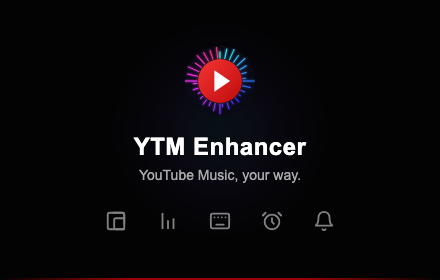
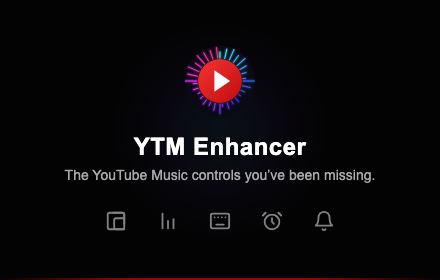
docs(store): sharpen extension marketing headline

Changed region(s): [[0.1477, 0.6, 0.8568, 0.6571]]

diff --git a/tests/docs/connected-apps-disclosure.test.ts b/tests/docs/connected-apps-disclosure.test.ts
@@ -74,15 +74,11 @@ describe("Connected Apps release disclosures", () => {
     const siteGenerator = read("apps/menu-bar/scripts/generate-appcast.mjs");
     const trayNotes = read("apps/windows-tray/release/notes/0.2.0.md");
 
-    expect(readme).toContain(
-      "The YouTube Music controls you’ve been missing.",
-    );
+    expect(readme).toContain("The YouTube Music controls you’ve been missing.");
     expect(readme.replace(/\s+/g, " ")).toContain(
       "Add precise playback controls, useful automation, a compact mini player, and more—without replacing the YouTube Music experience you already use.",
     );
-    expect(readme).not.toContain(
-      "Make YouTube Music work the way you listen.",
-    );
+    expect(readme).not.toContain("Make YouTube Music work the way you listen.");
     expect(readme).not.toMatch(/supercharges|best browser-based|ubiquity/i);
     expect(readme).toContain("**Connected Apps (Beta)**");
     expect(readme).toContain("Windows system tray");
@@ -105,8 +101,8 @@ describe("Connected Apps release disclosures", () => {
     expect(siteGenerator).toContain(
       "The YouTube Music controls you’ve been missing.",
     );
-    expect(siteGenerator).toContain(
-      "Add precise playback controls, useful automation, a compact mini player,",
+    expect(siteGenerator.replace(/\s+/g, " ")).toContain(
+      "Add precise playback controls, useful automation, a compact mini player, and more—without replacing the YouTube Music experience you already use.",
     );
     expect(siteGenerator).not.toContain(
       "Make YouTube Music work the way you listen",

diff --git a/store/screenshots/promo-marquee-1400x560.html b/store/screenshots/promo-marquee-1400x560.html
@@ -227,7 +227,7 @@
         alt="YTM Enhancer"
       />
       <h1>YTM Enhancer</h1>
-      <p class="tagline">Make YouTube Music work the way you listen.</p>
+      <p class="tagline">The YouTube Music controls you’ve been missing.</p>
       <div class="features">
         <div class="feature">
           <svg viewBox="0 0 24 24" aria-hidden="true">

diff --git a/store/screenshots/promo-small-440x280.html b/store/screenshots/promo-small-440x280.html
@@ -204,7 +204,7 @@
     </div>
 
     <div class="title">YTM Enhancer</div>
-    <div class="tagline">YouTube Music, your way.</div>
+    <div class="tagline">The YouTube Music controls you’ve been missing.</div>
 
     <div class="feature-strip">
       <!-- Mini Player -->

diff --git a/store/STORE.md b/store/STORE.md
@@ -17,11 +17,10 @@ optional Connected Apps (Beta).
 
 ### Detailed Description
 
-Make YouTube Music work the way you listen.
+The YouTube Music controls you’ve been missing.
 
-YTM Enhancer adds precise playback controls and practical features directly to
-the YouTube Music web app. Keep the service and library you already use, with no
-separate YTM Enhancer account or replacement player required.
+Add precise playback controls, useful automation, a compact mini player, and
+more—without replacing the YouTube Music experience you already use.
 
 Control playback across YouTube Music tabs, seek within a track, fine-tune
 volume and playback speed, choose stream quality, and manage shuffle and repeat.

diff --git a/README.md b/README.md
@@ -18,9 +18,10 @@
   <img alt="Privacy-first: no analytics" src="https://img.shields.io/badge/Privacy-No%20analytics-1F9D55">
 </p>
 
-Make YouTube Music work the way you listen. YTM Enhancer adds powerful playback
-controls and thoughtful quality-of-life features directly to the web app, so you
-can keep the service and library you already use.
+The YouTube Music controls you’ve been missing.
+
+Add precise playback controls, useful automation, a compact mini player, and
+more—without replacing the YouTube Music experience you already use.
 
 Control playback across tabs, fine-tune volume, speed, and stream quality, open
 a compact mini player, automate routine actions, and add visualizers,
